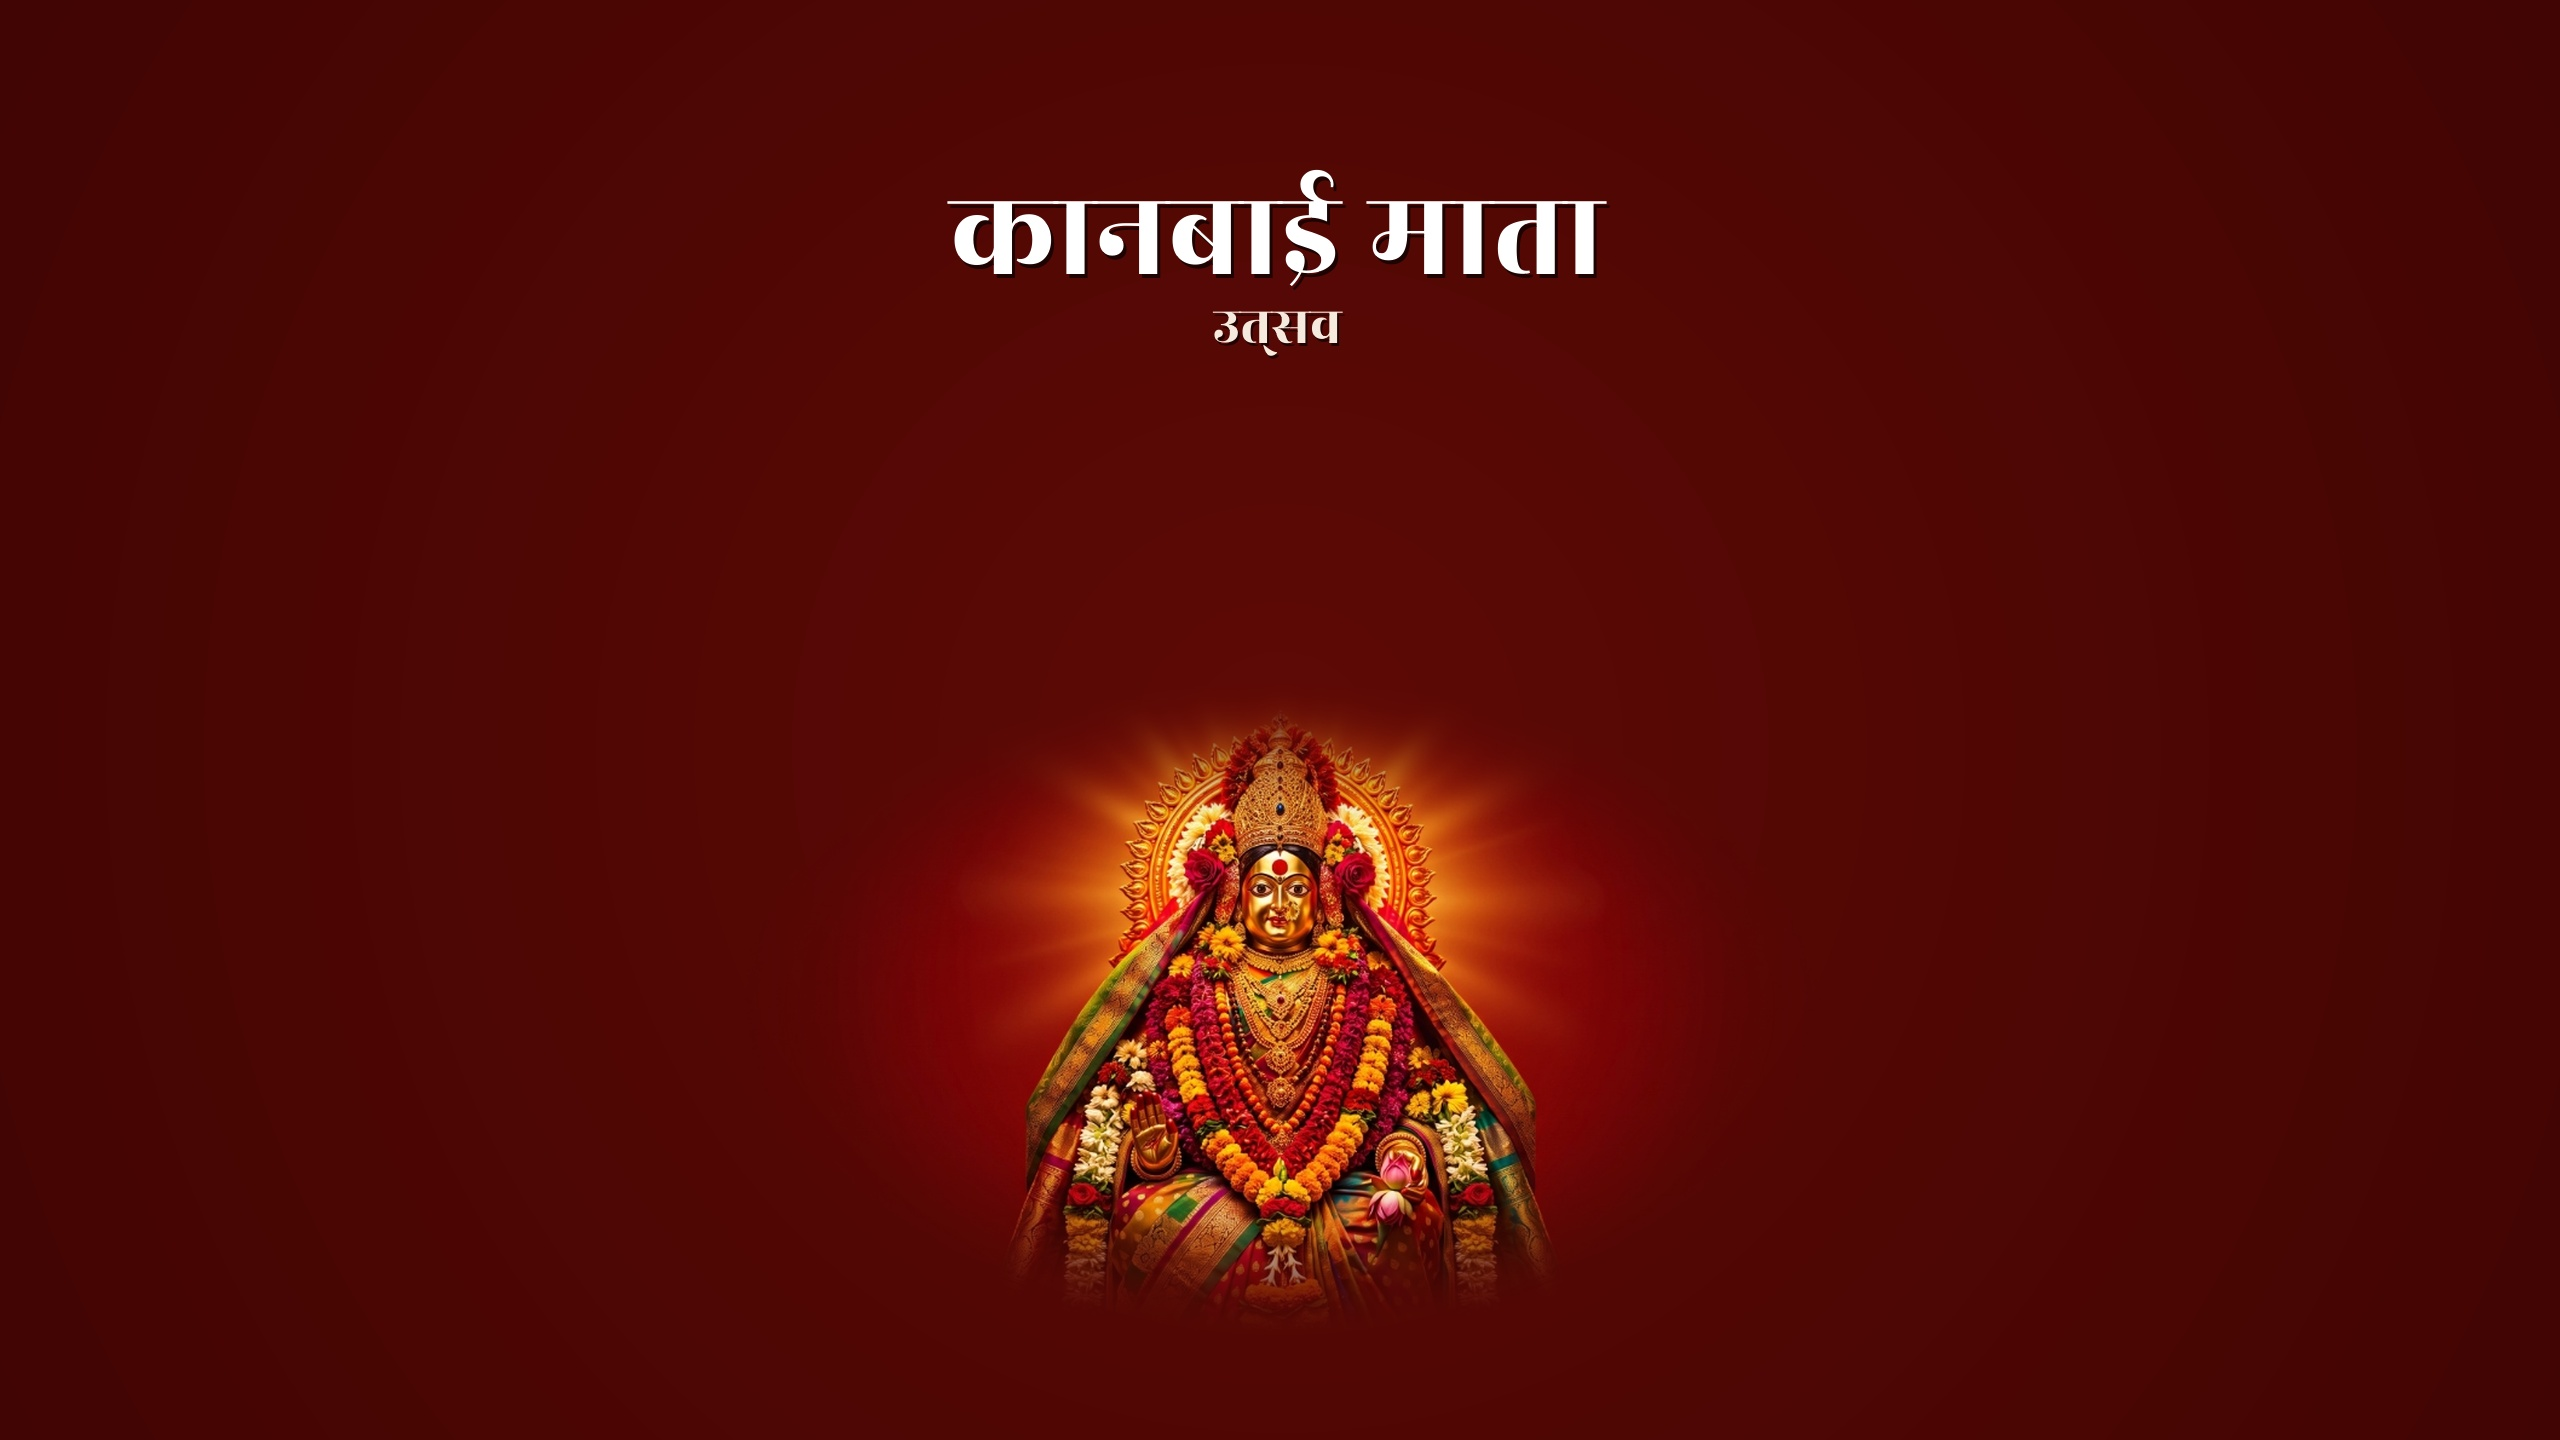
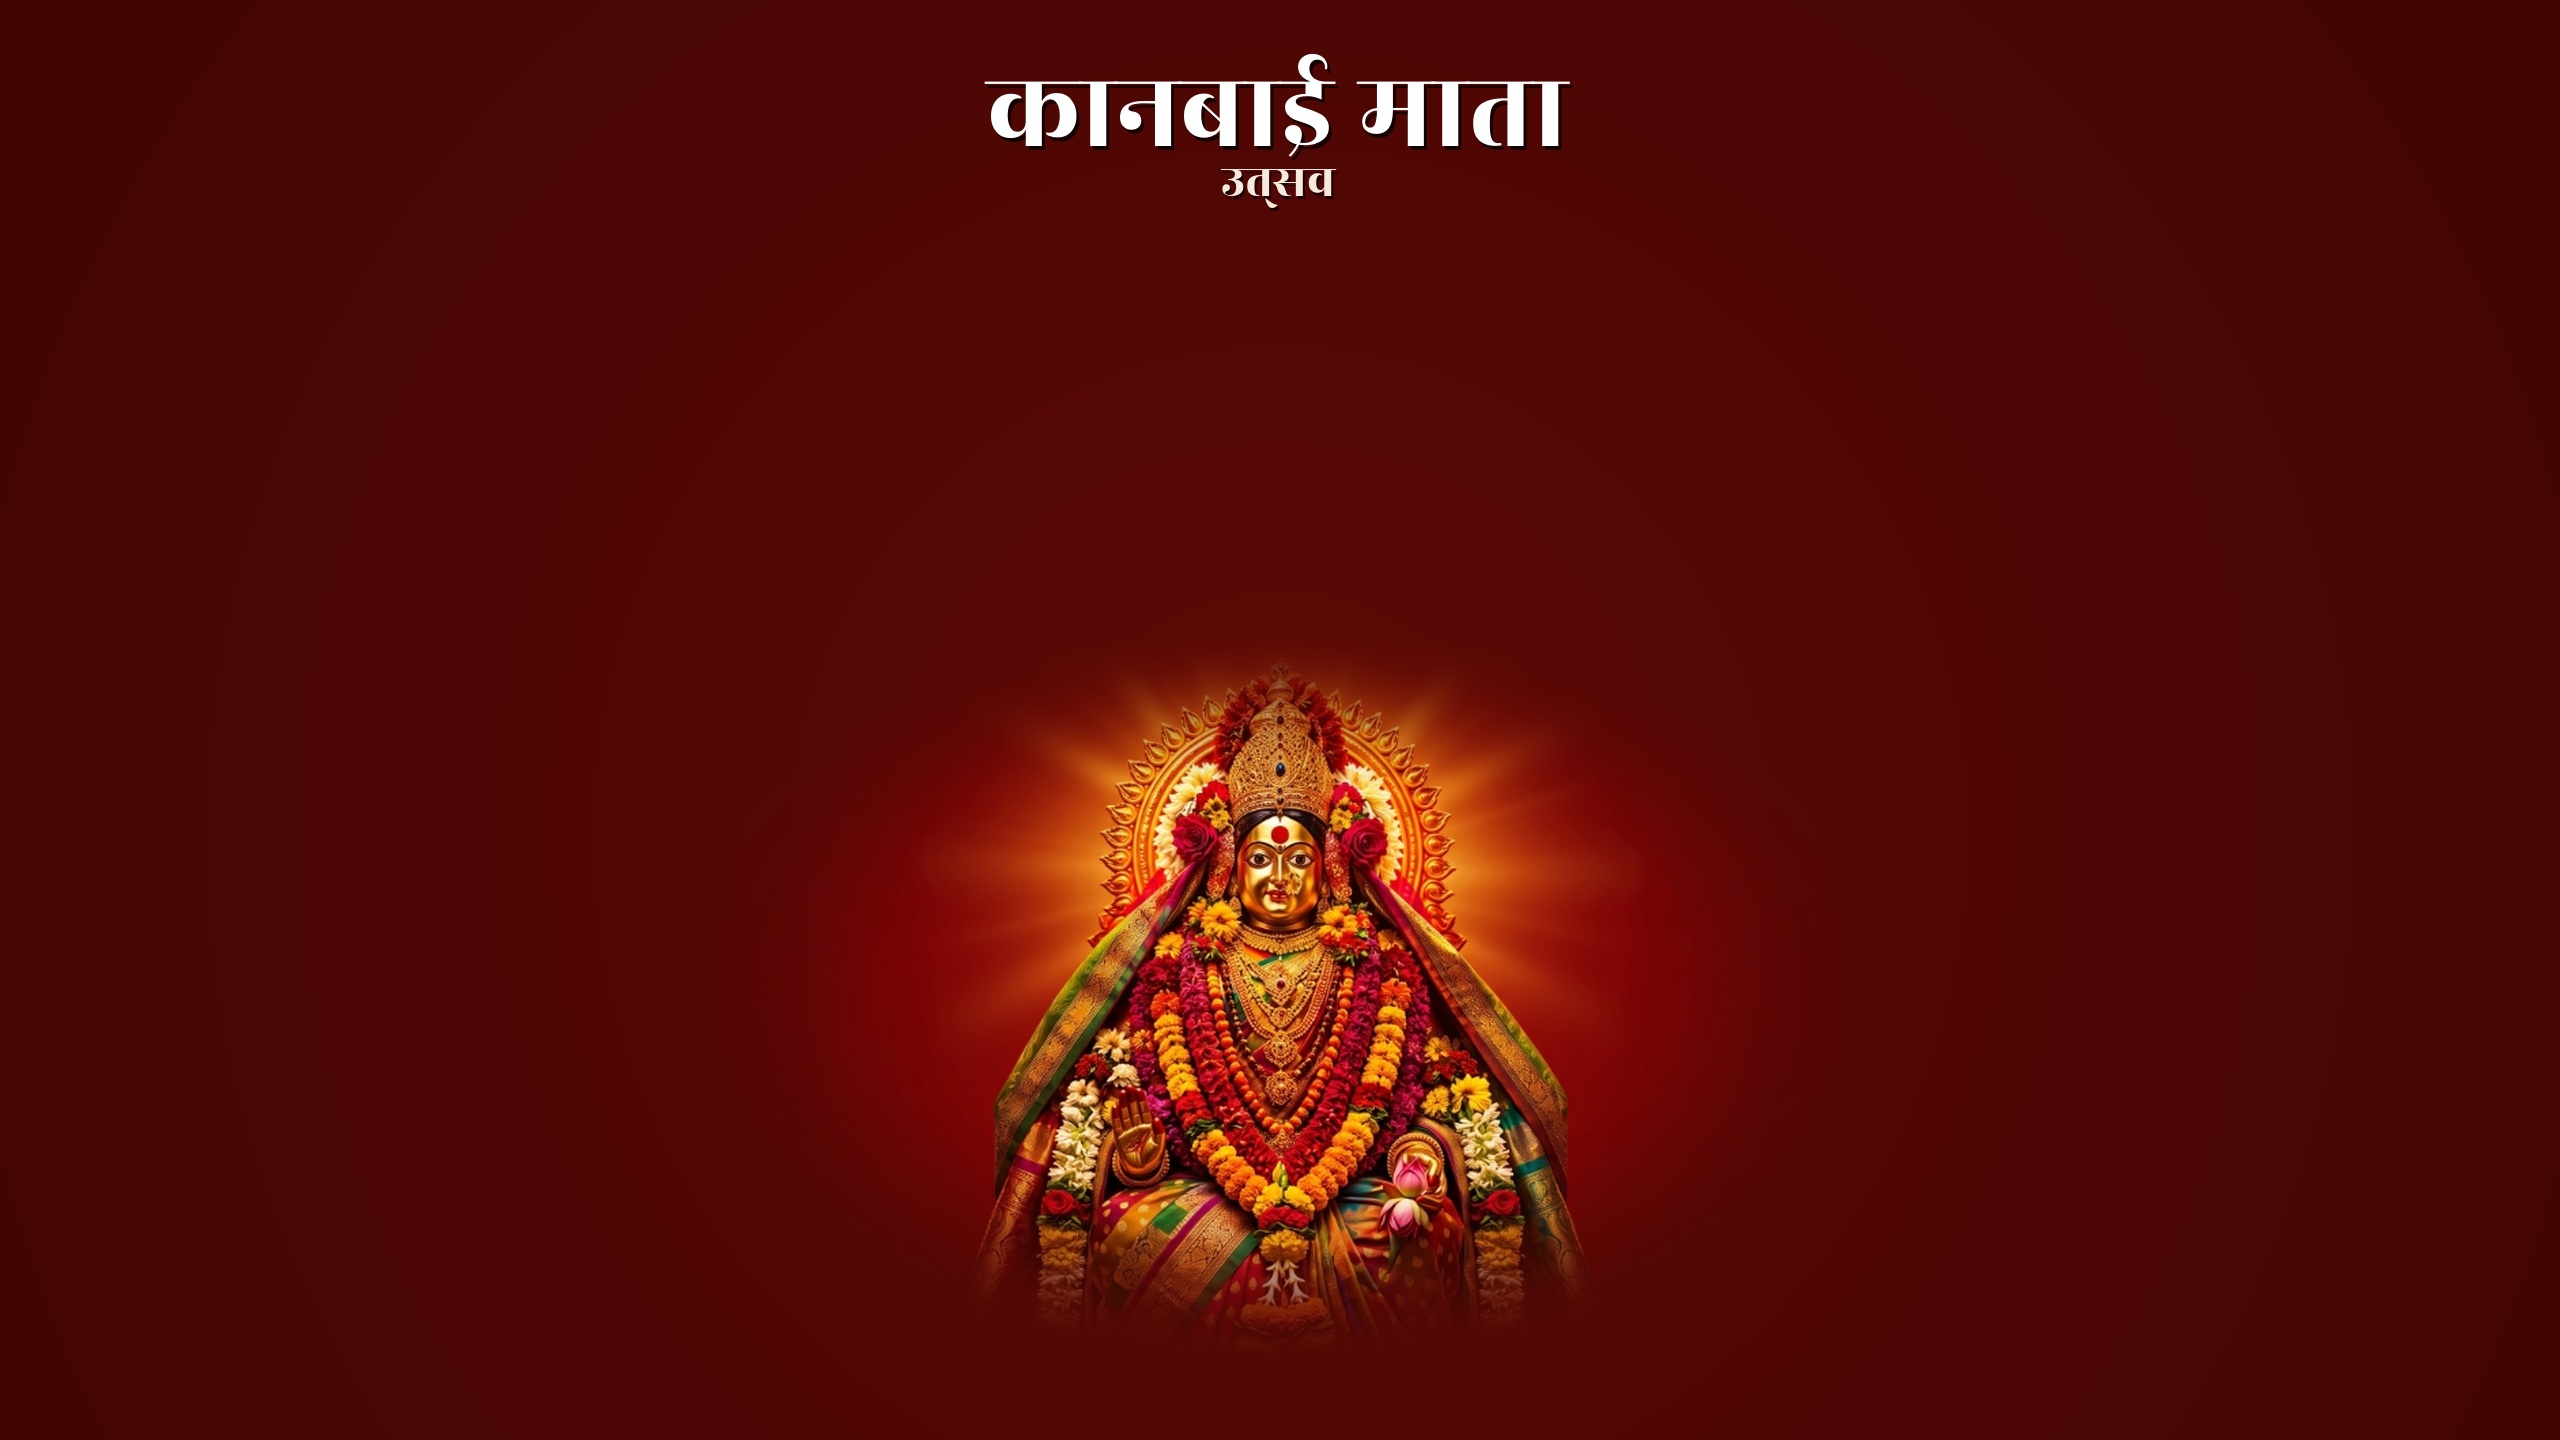
Relocate music player to top section directly below header text with balanced layout for desktop and mobile

Changed region(s): [[0.375, 0.4688, 0.625, 0.9375], [0.375, 0.0312, 0.625, 0.25]]

diff --git a/style.css b/style.css
@@ -803,13 +803,14 @@ body {
    -------------------------------------------------------------------------- */
 .player-container {
   position: fixed;
-  bottom: 1.25rem;
+  top: 76px;
+  bottom: auto;
   left: 50%;
   transform: translateX(-50%);
   width: calc(100% - 2rem);
   max-width: 470px;
   z-index: 50;
-  animation: fadeTranslateUp 0.7s cubic-bezier(0.16, 1, 0.3, 1) 0.65s both;
+  animation: fadeTranslateDown 0.7s cubic-bezier(0.16, 1, 0.3, 1) 0.45s both;
 }
 
 .mini-player-bar {
@@ -2061,7 +2062,8 @@ body {
    -------------------------------------------------------------------------- */
 @media (max-width: 768px) {
   .player-container {
-    bottom: calc(14px + env(safe-area-inset-bottom, 0px));
+    top: calc(clamp(115px, 15.5vh, 138px) + env(safe-area-inset-top, 0px));
+    bottom: auto;
     left: 50%;
     transform: translateX(-50%);
     width: calc(100% - 1.25rem);
@@ -2217,11 +2219,12 @@ body {
     height: 14px;
   }
 
-  /* Compact 2-Layer Mobile Music Player (Touch-Friendly & Non-Obtrusive) */
+  /* Compact 2-Layer Mobile Music Player (Positioned at top below title text) */
   .player-container {
-    margin-top: 8px;
-    margin-bottom: 8px;
-    bottom: calc(8px + env(safe-area-inset-bottom, 0px));
+    margin-top: 0;
+    margin-bottom: 0;
+    top: calc(clamp(118px, 16vh, 142px) + env(safe-area-inset-top, 0px));
+    bottom: auto;
     left: 50%;
     transform: translateX(-50%);
     width: calc(100% - 1rem);
